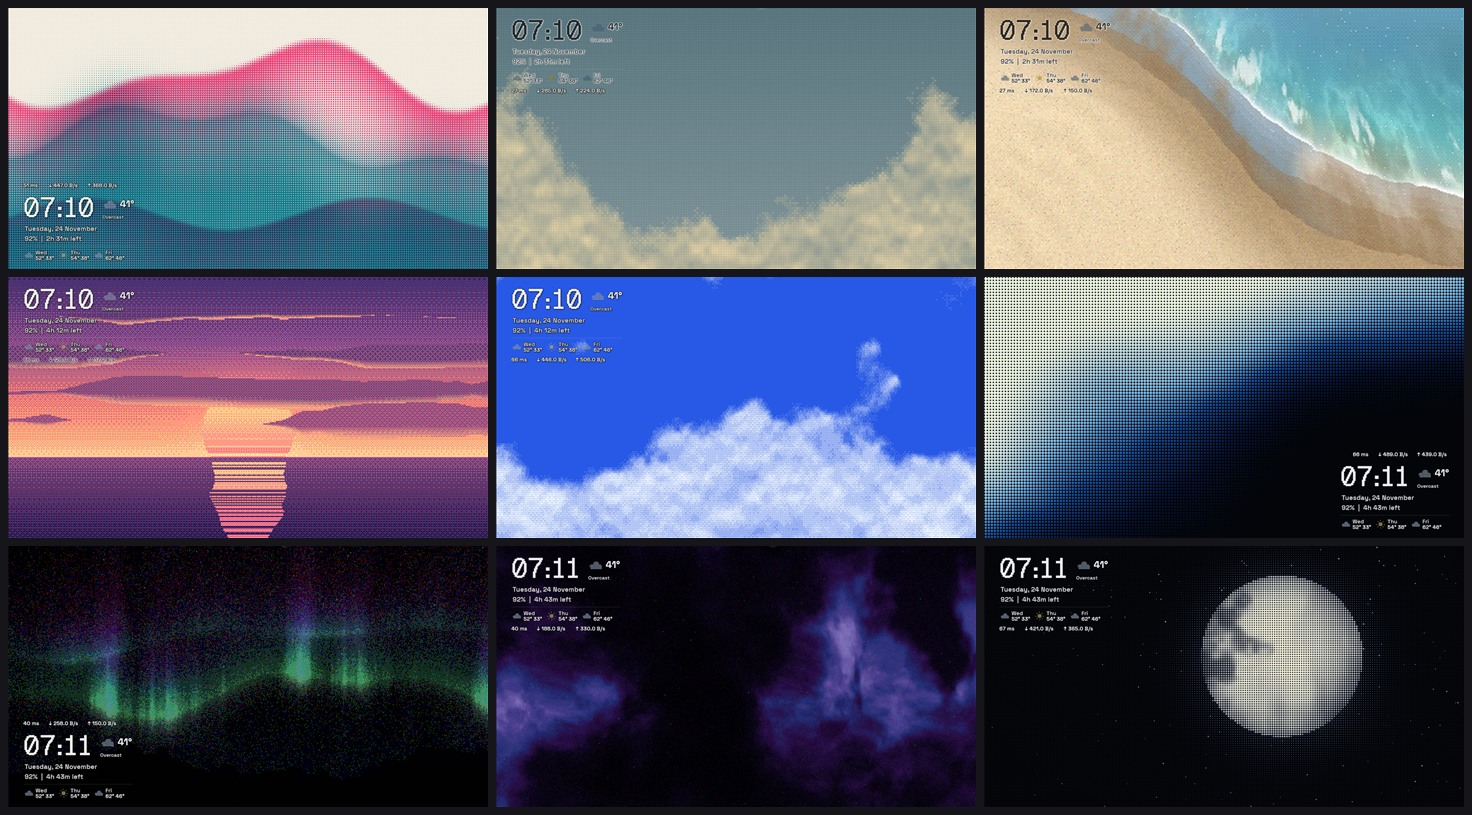
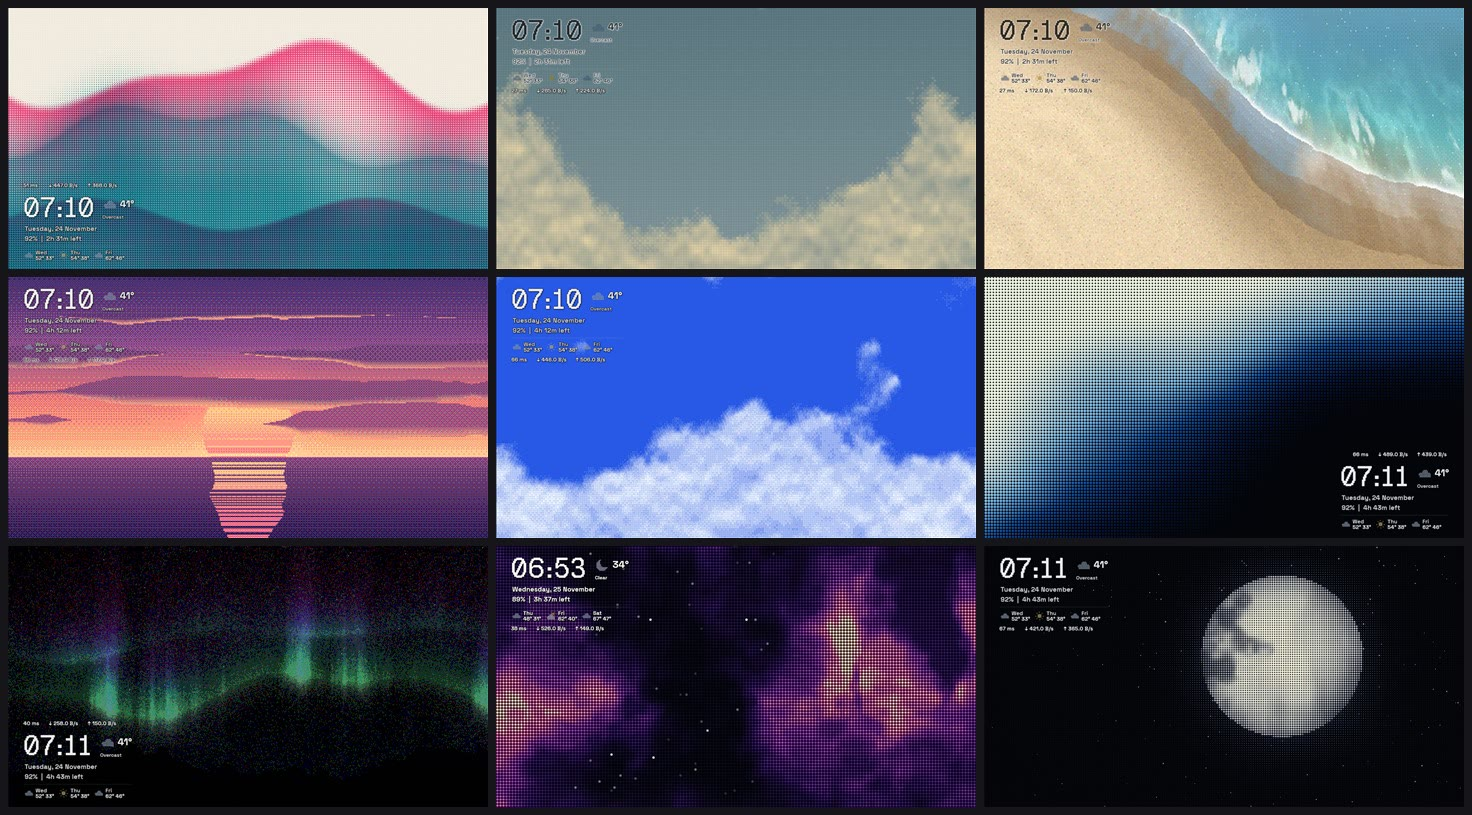
Retake the nebula screenshot; bring the README up to date
The nebula screenshot and its gallery tile show the new LED-panel look.
The README gives download sizes for every video format and says how to
change the rotation interval. The Clock.ini header no longer mentions an
IP location lookup, which was removed.

Changed region(s): [[0.3125, 0.6442, 0.6875, 1.0], [0.4375, 0.9816, 0.4688, 1.0]]

diff --git a/README.md b/README.md
@@ -32,12 +32,12 @@ Works on Windows 10 and 11 (64-bit).
 
 The installer isn't code-signed yet, so Windows SmartScreen may say "Windows protected your PC". Click **More info → Run anyway**. `SHA256SUMS.txt` on the release page has the installer's checksum, and the [release workflow](.github/workflows/release.yml) log shows it was built from the tagged source.
 
-Four styles come with the installer (riso, shore, pixel clouds, aurora). On the **Wallpaper styles** page, choose whether to download the other 15 after setup (about 250 MB): all of them, none, or the ones you tick. They download in the background, about 5–55 MB each. Any you skip download the first time you pick them, or all at once from the tray icon's menu.
+Four styles come with the installer (riso, shore, pixel clouds, aurora). On the **Wallpaper styles** page, choose whether to download the other 15 after setup (about 250 MB): all of them, none, or the ones you tick. They download in the background, about 2–50 MB each depending on the video format. Any you skip download the first time you pick them, or all at once from the tray icon's menu.
 
 ## Usage
 
 - **Pick a style:** click the tray icon for the widgets' Settings panel, or right-click it for the style menu.
-- **Rotate styles:** choose *Rotate day/night* in the Settings panel. It changes style every hour, with dark styles at night.
+- **Rotate styles:** choose *Rotate day/night* in the Settings panel. It changes style every hour by default (*Change every* in the Rotation section), with dark styles at night.
 - **Skip to the next style:** Win+Alt+N.
 - **Start with Windows:** a checkbox in the tray menu (also in Task Manager → Startup apps).
 - **Video format:** the tray menu's *Video format*. *Automatic* picks the smallest format your graphics chip plays (AV1, then HEVC, then H.264), so the CPU stays idle. On a desktop where battery doesn't matter you can pick AV1 for smaller files even if the CPU has to decode it. Changing it downloads your styles again in that format. Styles that don't look as good in a format are only published in H.264.
